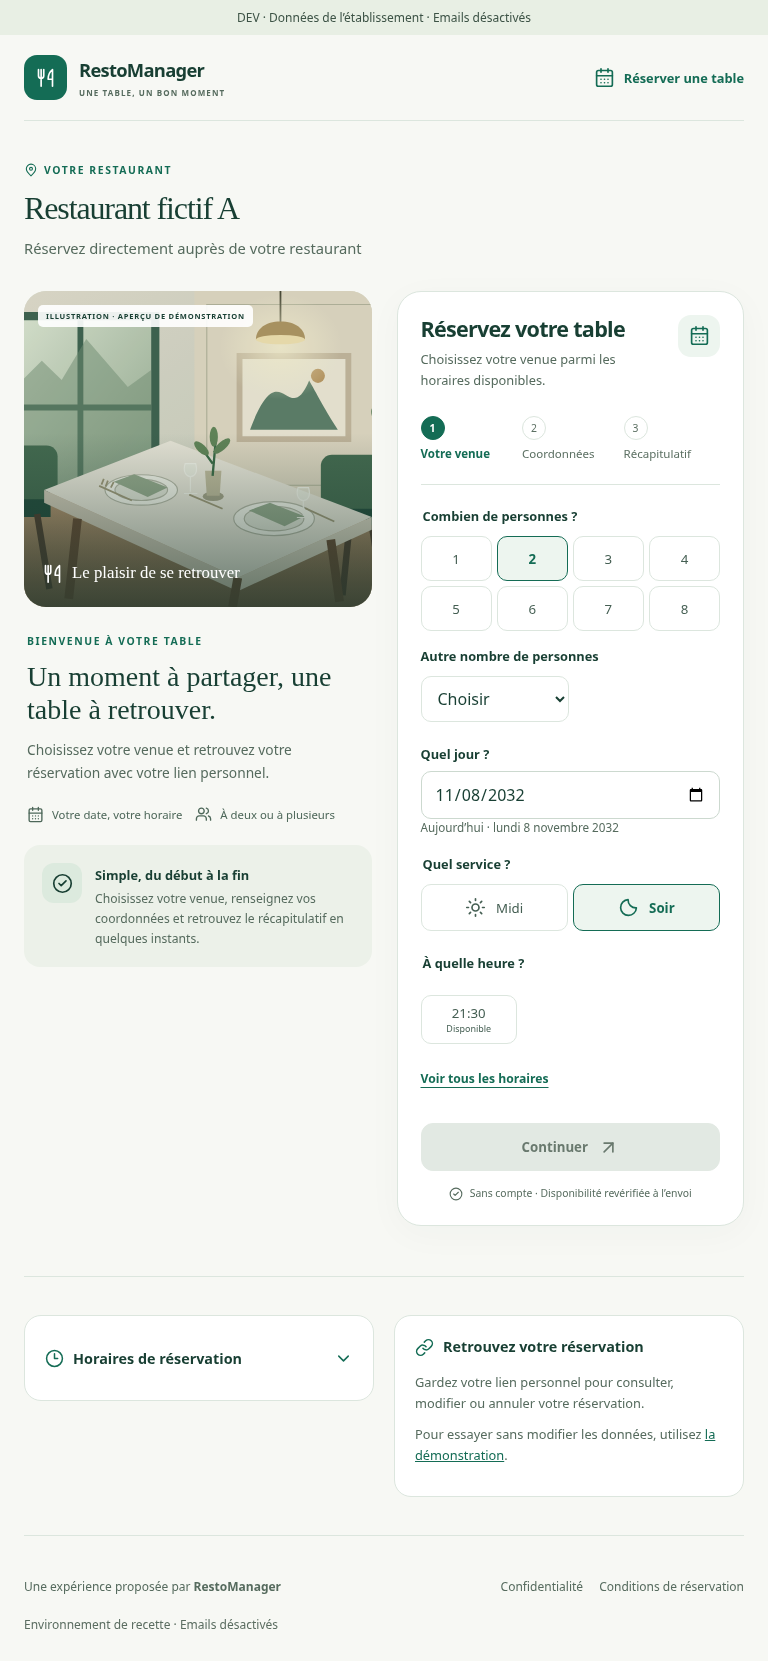
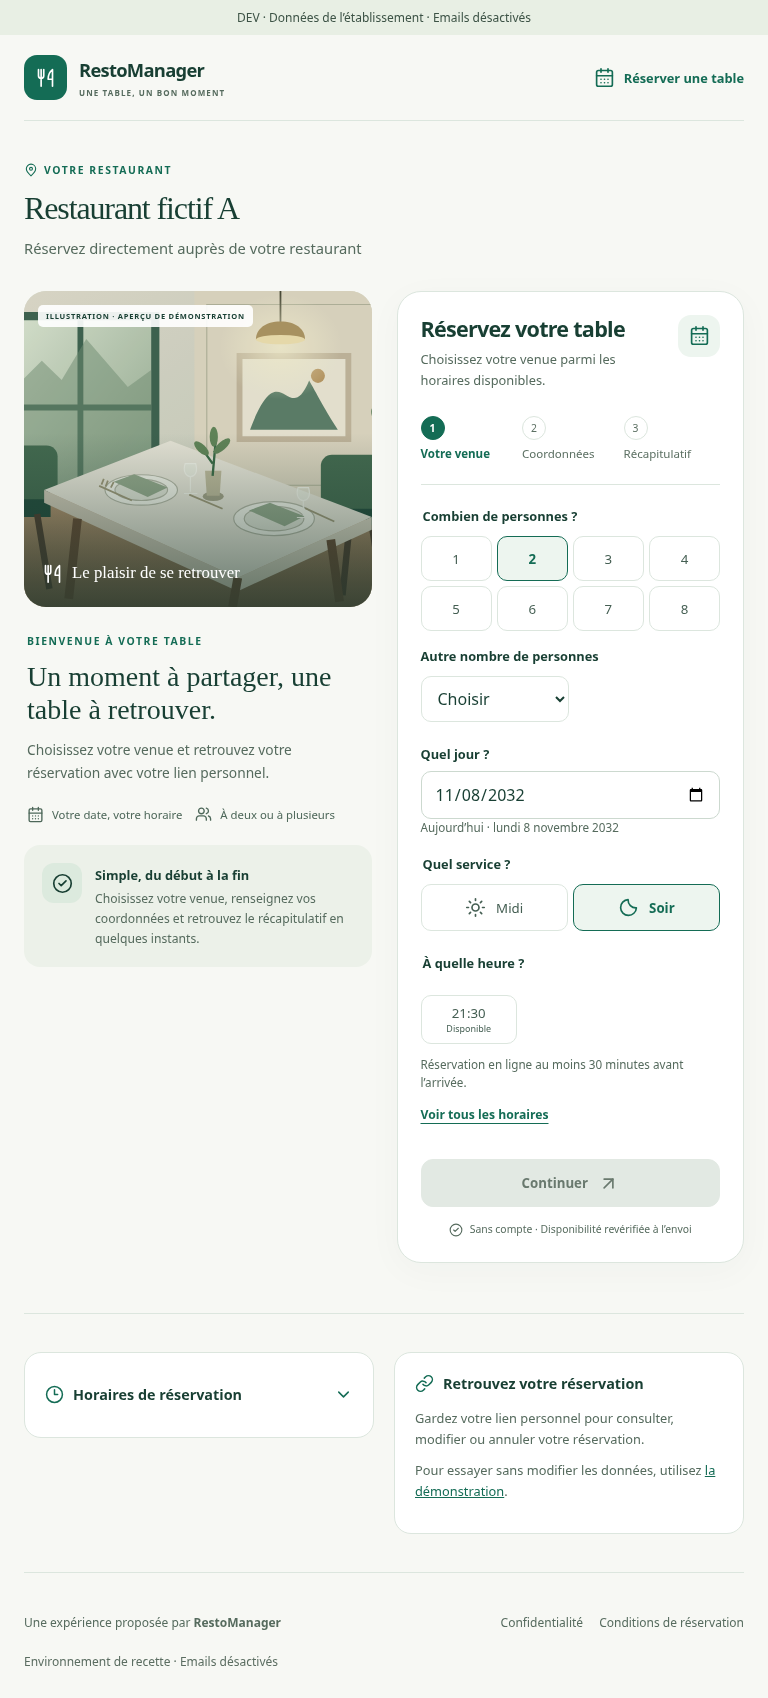
fix(rm015): explain past closed and too-soon booking slots accurately

diff --git a/docs/audits/RM0159_DATES_ET_SUIVI_20261120.md b/docs/audits/RM0159_DATES_ET_SUIVI_20261120.md
@@ -21,6 +21,7 @@ Les déclencheurs de révision et la publication Realtime des réservations, aff
 - Date du service visible sur chaque carte salariée et dans son suivi détaillé, distincte de l’horodatage de confirmation.
 - Rafraîchissement explicite des calendriers après recherche, ouverture d’une fiche, notification et synchronisation. Une recherche sur toutes les dates affiche « Toutes les dates ». Aucune émission artificielle d’événement de modification du formulaire.
 - Contraste du libellé Hôtel/Extérieur renforcé après détection axe ; vérification en thèmes clair et sombre.
+- Les créneaux refusés ne sont plus tous appelés « Complet » : « Horaire passé », « Trop proche » ou « Indisponible », sans inventer le motif d’une indisponibilité serveur. Le délai de réservation prévu est visible. Un service fermé et une journée sans horaire encore réservable sont expliqués. Les disponibilités et exceptions de maintien accordées par le serveur restent prioritaires.
 - Version DEV `2026.11.20-rm015.9-dev`, ressources modifiées et cache PWA actualisés.
 
 ## Périmètre et sécurité
@@ -31,13 +32,21 @@ Aucune migration ni modification d’Edge Function. Aucun changement Supabase pa
 
 Les résultats définitifs CI et du déploiement DEV sont consignés dans la Pull Request sur son dernier commit. Les preuves locales sont jointes ci-dessous.
 
-- Tests unitaires : `npm test`, 66 fichiers réussis ; sept nouveaux cas couvrent le choix initial, le serveur, demain, minuit, les deux changements d’heure, le réseau et les libellés.
+- Tests unitaires : `npm test`, 66 fichiers réussis ; dix nouveaux cas couvrent le choix initial, le serveur, demain, minuit, les deux changements d’heure, le réseau, les libellés, le délai à minuit et la distinction des refus.
 - Syntaxe : 200 fichiers sans erreur. Builds publics : 8 ressources de démonstration, 18 ressources connectées, sans dashboard ni secret dans les artefacts publics.
 - Démonstration : 13 scénarios réussis, aux sept largeurs, avec clavier, focus, erreurs, reprise, modification, annulation et absence d’accès interne.
-- Parcours connecté ciblé : **10 scénarios et 20 audits axe réussis**, sans requête extérieure ni tâche restante ; formats 360, 390, 430, 768, 1024, 1440 et 1920 ; horloge serveur indépendante du navigateur, aujourd’hui à 20:50, bascule explicite à demain, absence de présélection et reprise d’une date choisie.
+- Parcours connecté ciblé : **11 scénarios et 28 audits axe réussis**, sans requête extérieure ni tâche restante ; formats 360, 390, 430, 768, 1024, 1440 et 1920 ; horloge serveur indépendante du navigateur, aujourd’hui à 20:50, bascule explicite à demain, absence de présélection et reprise d’une date choisie.
 - Cohérence salariée : création Web avec attribution SQL, révision serveur, table attendue et deux couverts du jour ; modification Extérieur vers Hôtel, chambre et heure ; déplacement au lendemain, retrait des indicateurs du jour, recherche toutes dates et ouverture par notification. Deux sessions Restaurant/Réception, trois formats. Résultats détaillés dans `results.json`.
 
 Les scénarios connectés utilisent le vrai gestionnaire HTTP et PostgreSQL 17 jetable `--network none`. La modification salariée appelle le véritable RPC sécurisé. Le transport entre les deux pages est une fixture de notification qui recharge un instantané SQL réel ; ce test ne prétend pas exercer le service Realtime hébergé. La validation Realtime locale existante fait aussi partie de la campagne CI. Les identités, chambres et restaurants capturés sont fictifs. Aucune réservation fictive créée dans une base partagée, aucun essai avec de vrais employés revendiqué. Les audits axe ne remplacent pas une recette humaine sur appareils physiques et lecteur d’écran.
+
+## Complément du 21 novembre : « tout Complet »
+
+Contrôle à 07:51 Europe/Paris sur DEV, sans création, maintien, modification ni annulation de réservation : le serveur public renvoie onze horaires disponibles le 21 novembre au soir pour deux personnes, et aucun horaire le midi, fermé le samedi dans les réglages existants. Ce constat ne prouve pas le motif de l’essai antérieur : la date exacte, le service et l’heure de cet essai ont été demandés à l’utilisateur. Aucun horaire ni délai réel n’a été changé.
+
+L’affichage assimilait tout refus du serveur à « Complet », y compris une heure passée ou exclue par le délai minimum. Le frontend distingue maintenant ces situations à partir de l’horloge, du délai et des horaires publics existants. Lorsque le serveur ne donne pas le motif, il affiche « Indisponible » ; il n’invente pas un restaurant rempli ou une limite d’arrivées atteinte. Les lectures de disponibilité suivent l’API publique habituelle, qui peut entretenir ses compteurs de requêtes et expirer les maintiens déjà échus ; elles ne créent aucune réservation d’essai.
+
+La campagne locale complète antérieure aux nouveaux messages passe **76 scénarios et 171 audits axe**. Les scénarios ciblés supplémentaires couvrent la sélection explicite d’aujourd’hui au-delà du dernier créneau admissible, l’ouverture de tous les horaires, le délai visible et un service hebdomadaire fermé. Les résultats définitifs complets de cette dernière évolution sont consignés dans la PR.
 
 ## Captures comparables
 
@@ -47,12 +56,14 @@ Les scénarios connectés utilisent le vrai gestionnaire HTTP et PostgreSQL 17 j
 | Tablette 768 | [Voir](preuves/rm0159-20261120/initial-today-768.png) | [Voir](preuves/rm0159-20261120/initial-tomorrow-768.png) | [Voir](preuves/rm0159-20261120/calendar-coherence-768.png) |
 | PC 1440 | [Voir](preuves/rm0159-20261120/initial-today-1440.png) | [Voir](preuves/rm0159-20261120/initial-tomorrow-1440.png) | [Voir](preuves/rm0159-20261120/calendar-coherence-1440.png) |
 
+Créneaux du jour non réservables : [mobile](preuves/rm0159-20261120/unavailable-today-390.png) · [tablette](preuves/rm0159-20261120/unavailable-today-768.png) · [PC](preuves/rm0159-20261120/unavailable-today-1440.png). [Service fermé](preuves/rm0159-20261120/closed-service-390.png).
+
 ## Recette sur Render DEV
 
 Après déploiement, ouvrir [le clone DEV](https://restomanager-v3-supabase-integration.onrender.com/v3-connected.html) et accepter la mise à jour en ayant enregistré toute saisie. Vérifier la version `2026.11.20-rm015.9-dev`.
 
 1. Depuis Gestion → Réservations en ligne, ouvrir le lien client. Vérifier le jour écrit sous la date, l’annonce éventuelle de demain et l’absence d’heure cochée. Ne pas confirmer d’exercice dans les données partagées.
-2. Choisir une date ultérieure, revenir en arrière : elle doit rester choisie. Utiliser la démonstration pour les exercices complets.
+2. Vérifier le délai affiché. Si tous les horaires sont passés ou trop proches, le texte doit l’expliquer, sans annoncer un restaurant complet. Un service fermé doit également être expliqué. Choisir une date ultérieure, revenir en arrière : elle doit rester choisie. Utiliser la démonstration pour les exercices complets.
 3. Dans Réservations, rechercher un nom existant : le calendrier doit afficher « Toutes les dates » et chaque carte la véritable date de service.
 4. Ouvrir une réservation par sa notification : le calendrier et sa fiche doivent indiquer la même date.
 5. Pour un service futur, vérifier la réservation dans sa journée. Le tableau des tables du jour ne doit pas la compter comme attendue aujourd’hui. Pour changer réellement sa journée, utiliser une modification explicite après vérification du besoin réel du client.
